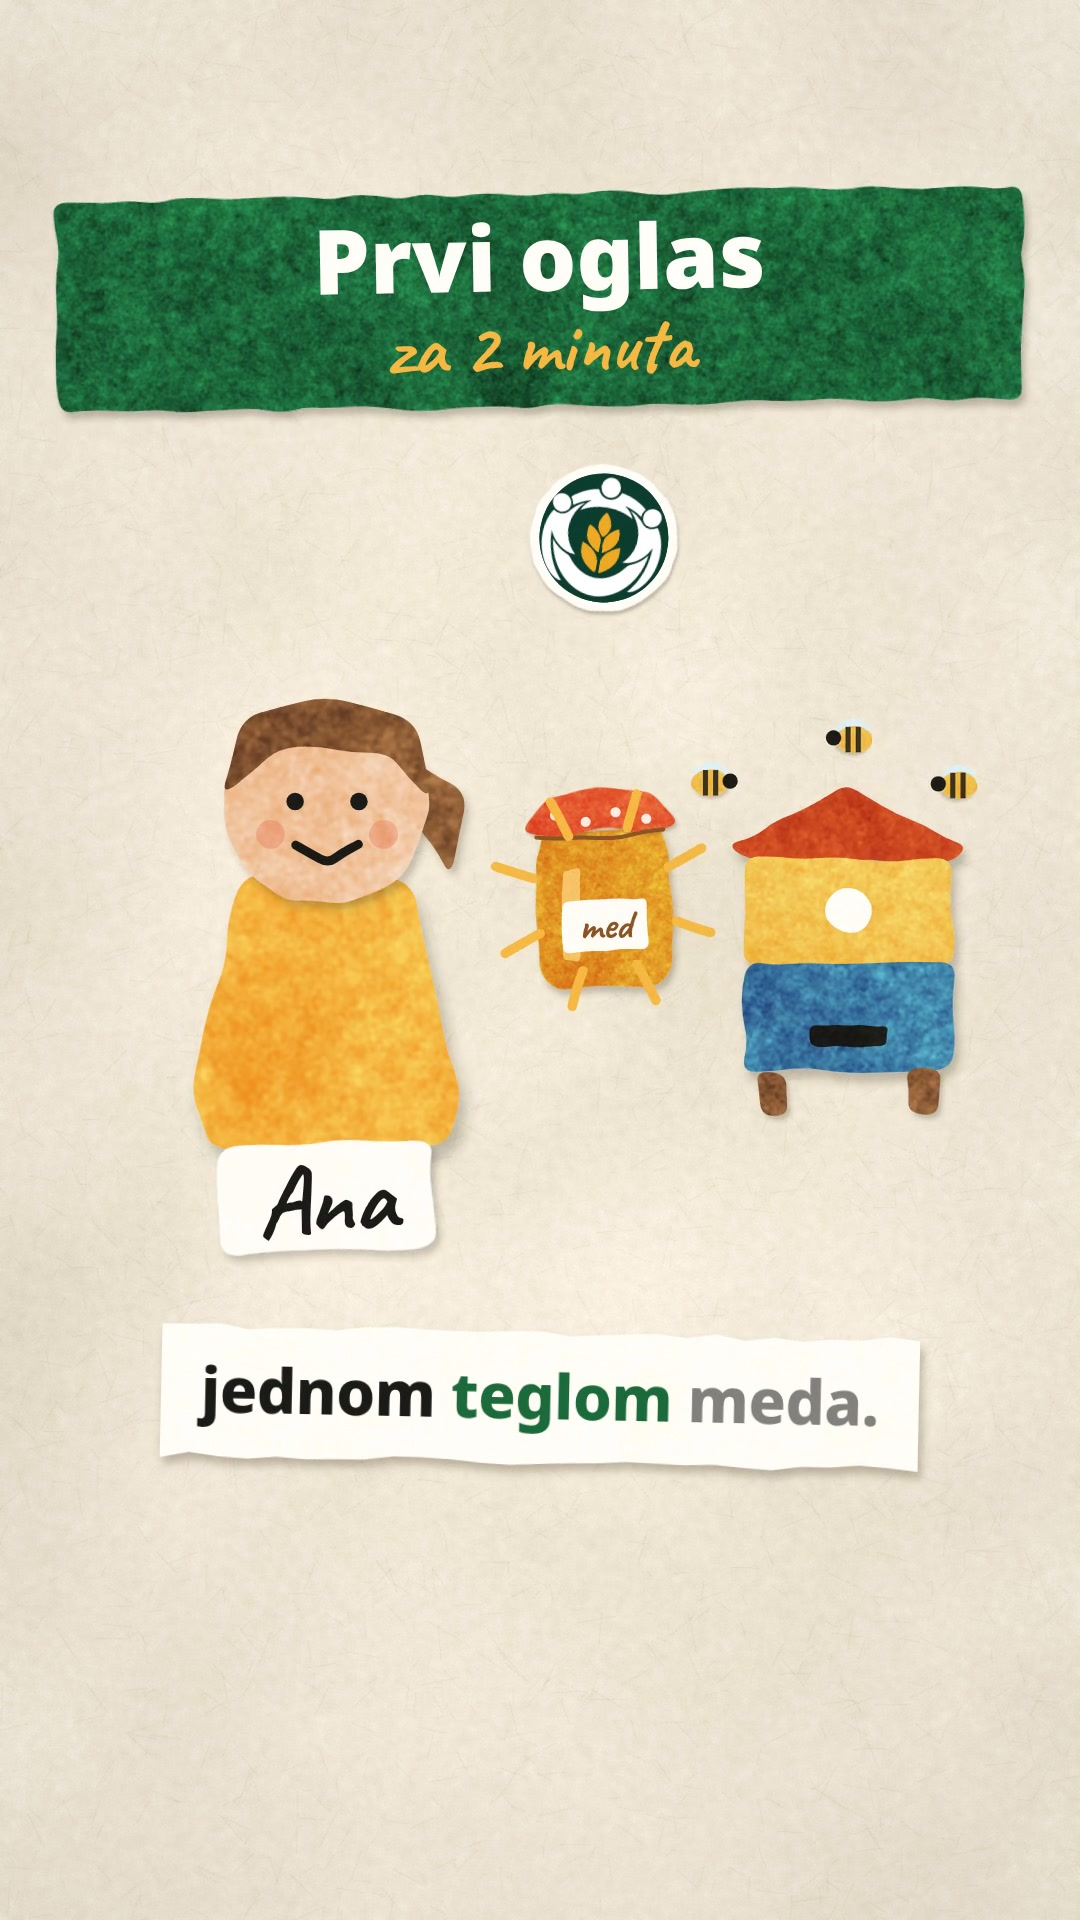
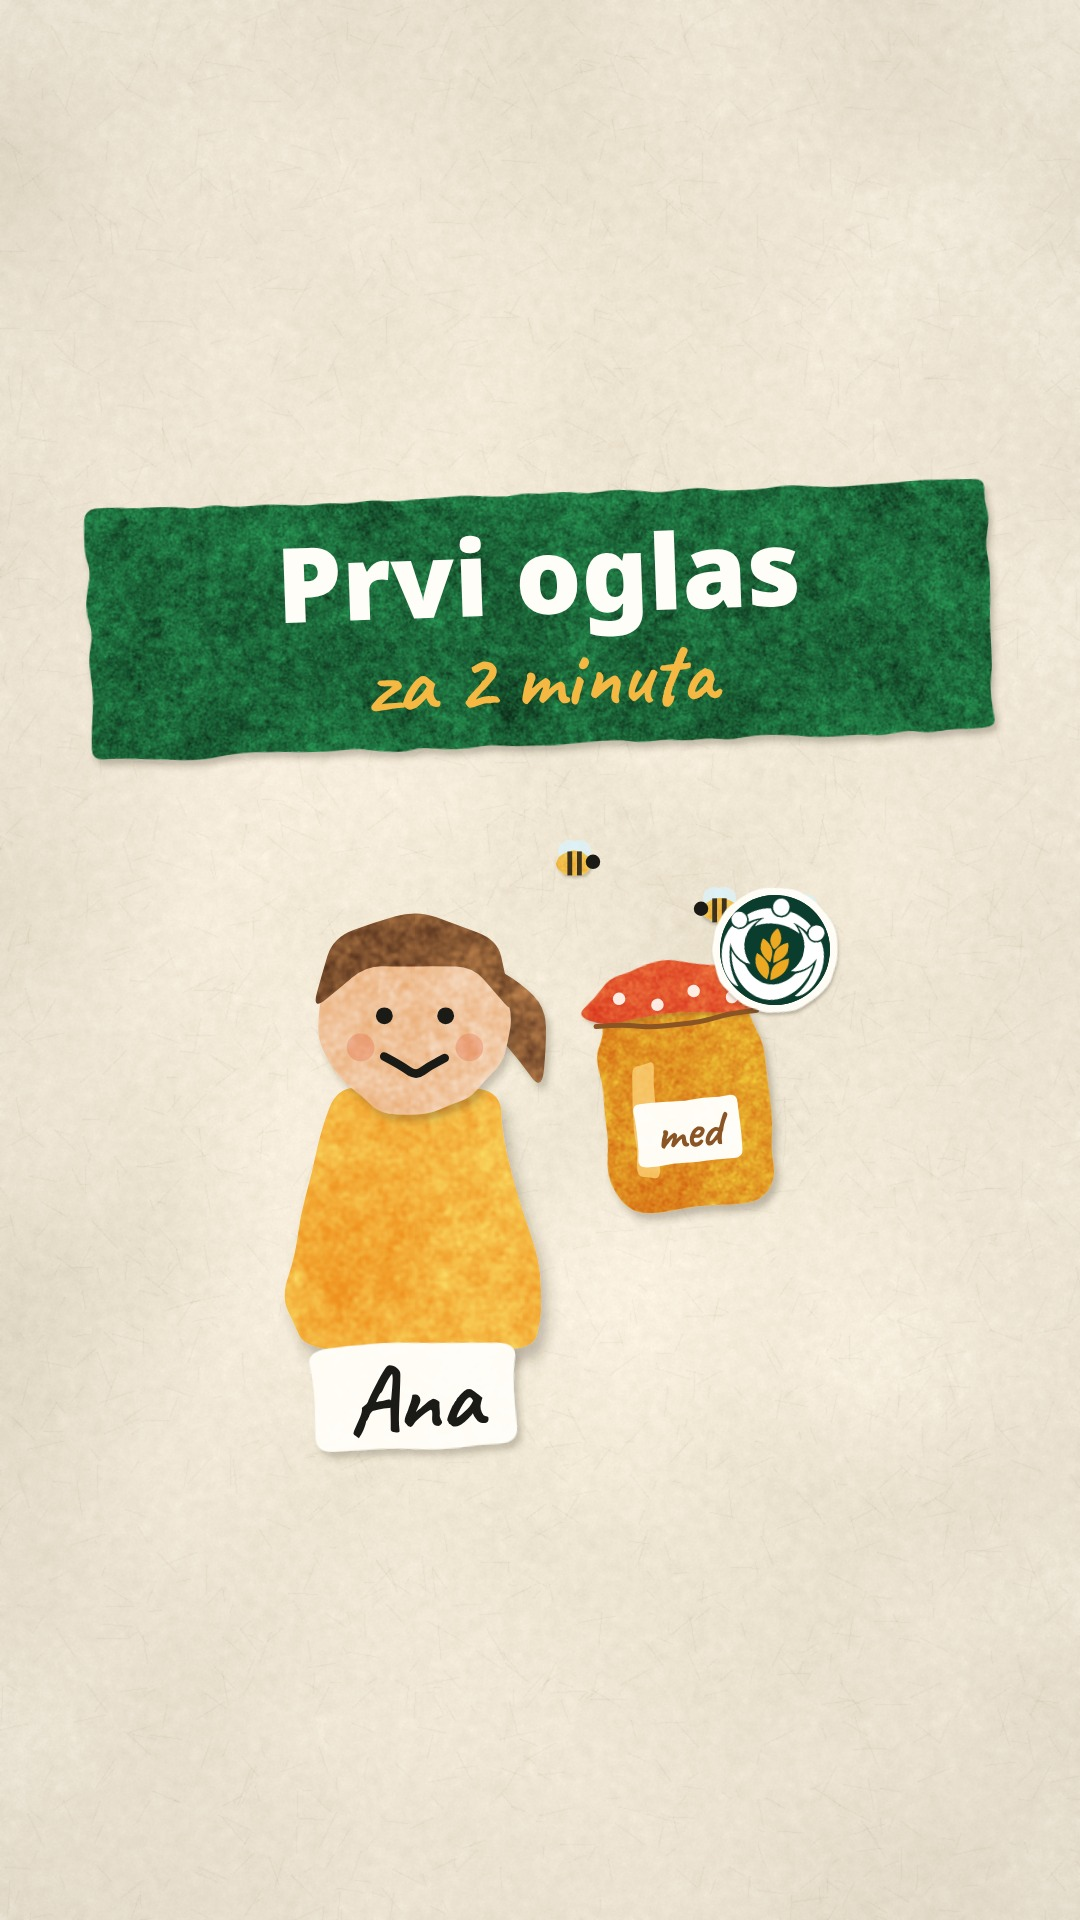
Video 4: naslovna centrirana za Facebook i Instagram mrežu (posebna kompozicija)
Claude-Session: https://claude.ai/code/session_0174eWTBb85vPZDUXgPtkHn1

diff --git a/video/kolo-prvi-oglas/src/Naslovna.tsx b/video/kolo-prvi-oglas/src/Naslovna.tsx
@@ -1,0 +1,40 @@
+// Naslovna slika (1080×1920) složena tako da sve bitno stane u sredinu kadra:
+// Instagram mreža seče na 3:4 (y 240–1680), Facebook feed na 4:5 ili kvadrat (y 420–1500).
+// Natpis, Ana i tegla su u kvadratu y 420–1500, centrirani po širini.
+import React from "react";
+import { AbsoluteFill, Img, staticFile } from "remotion";
+import { P } from "./paleta";
+import { ucitajFontove, SANS, RUKOPIS } from "./fontovi";
+import { Defs, Isecak, pravougaonik } from "./papir";
+import { LogoZnak } from "./kolo";
+import { Lik, Pcele, Tegla } from "./prica";
+
+ucitajFontove();
+
+export const Naslovna: React.FC = () => (
+  <AbsoluteFill style={{ background: P.papir }}>
+    <Img src={staticFile("papir.jpg")} style={{ position: "absolute", inset: 0, width: 1080, height: 1920 }} />
+    <svg viewBox="0 0 1080 1920" width={1080} height={1920} style={{ position: "absolute", inset: 0 }}>
+      <Defs />
+      <g transform="translate(540 620) rotate(-2)">
+        <Isecak pts={pravougaonik(-450, -125, 900, 250)} boja={P.zelena700} seed="n-udica" amp={3} />
+        <text x={0} y={-6} textAnchor="middle" fontFamily={SANS} fontWeight={900} fontSize={104} fill={P.belo}>
+          Prvi oglas
+        </text>
+        <text x={0} y={86} textAnchor="middle" fontFamily={RUKOPIS} fontWeight={700} fontSize={86} fill={P.zlatna400}>
+          za 2 minuta
+        </text>
+      </g>
+      <g transform="translate(415 1090) scale(2.15)">
+        <Lik id="ana" seed="n-ana" />
+      </g>
+      <g transform="translate(685 1100) rotate(-6) scale(1.25)">
+        <Tegla seed="n-tegla" />
+      </g>
+      <Pcele seed="n-pc" x={690} y={900} n={3} r={150} od={-40} />
+      <g transform="translate(775 950) rotate(10) scale(0.5)">
+        <LogoZnak seed="n-logo" r={110} />
+      </g>
+    </svg>
+  </AbsoluteFill>
+);

diff --git a/video/kolo-prvi-oglas/src/Root.tsx b/video/kolo-prvi-oglas/src/Root.tsx
@@ -1,8 +1,10 @@
 import { Composition } from "remotion";
 import { Kolaz } from "./Kolaz";
+import { Naslovna } from "./Naslovna";
 import plan from "./plan.json";
 
 export const Root: React.FC = () => (
+  <>
   <Composition
     id="KoloPrviOglas"
     component={Kolaz}
@@ -11,4 +13,6 @@ export const Root: React.FC = () => (
     width={1080}
     height={1920}
   />
+  <Composition id="Naslovna" component={Naslovna} durationInFrames={1} fps={30} width={1080} height={1920} />
+  </>
 );

diff --git a/video/kolo-prvi-oglas/README.md b/video/kolo-prvi-oglas/README.md
@@ -1,7 +1,7 @@
 # KOLO video — Registracija i prvi oglas (4. po redosledu serije)
 
 Animirani video za Reels/TikTok/Facebook: **1080×1920, 30 fps, 79 s, H.264 + AAC, −14 LUFS**.
-Gotov fajl: [`out/kolo-prvi-oglas.mp4`](out/kolo-prvi-oglas.mp4), naslovna: [`out/naslovna.jpg`](out/naslovna.jpg).
+Gotov fajl: `out/kolo-prvi-oglas.mp4`. Naslovna: [`out/naslovna.jpg`](out/naslovna.jpg), posebna kompozicija `Naslovna` (`src/Naslovna.tsx`, `node scripts/naslovna.mjs`) složena u kvadrat y 420–1500, da je Facebook (4:5, kvadrat) i Instagram mreža (3:4) ne seku.
 Scenario i tekst naracije: [`scenario.md`](scenario.md).
 
 Isti sistem kao videi 2 i 3 (`video/kolo-04`, `video/kolo-03`): papirni kolaž, linije koje
